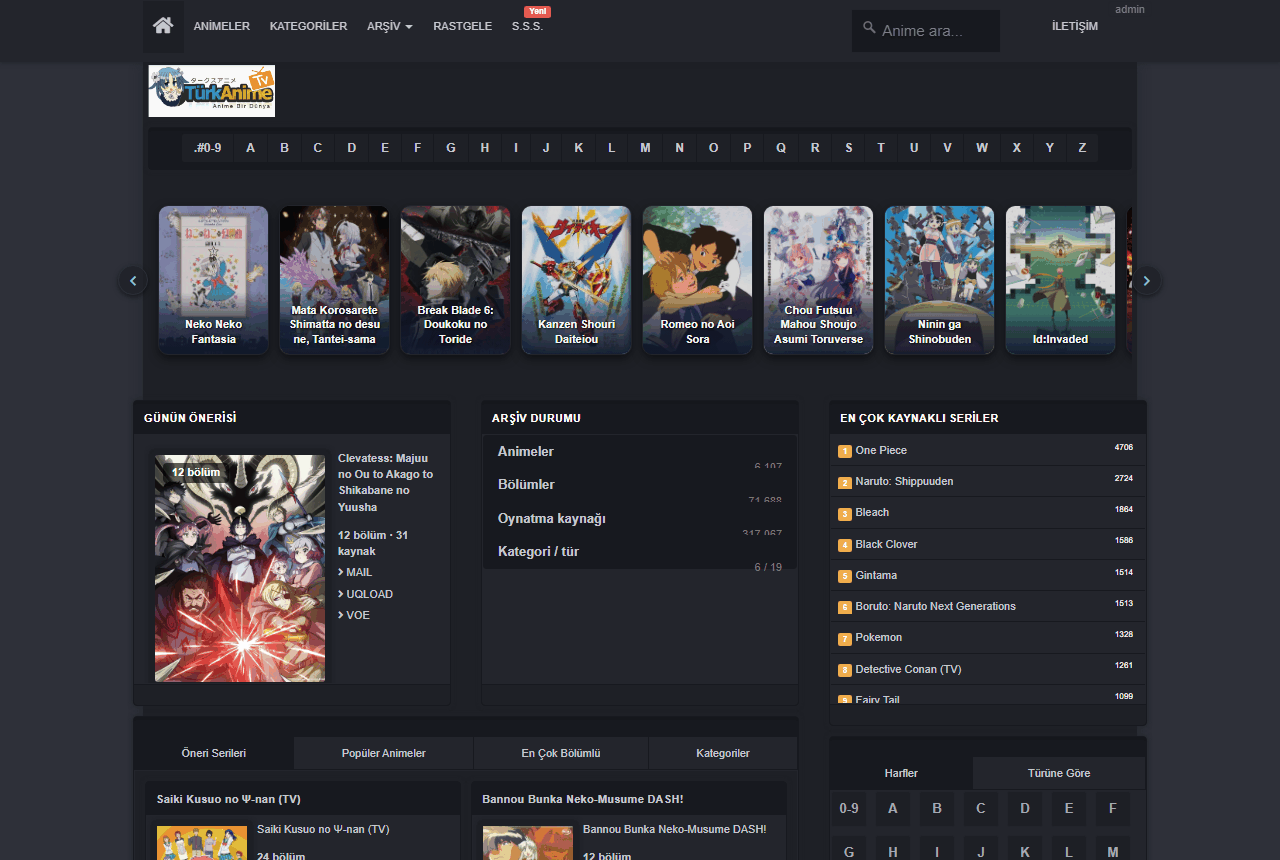
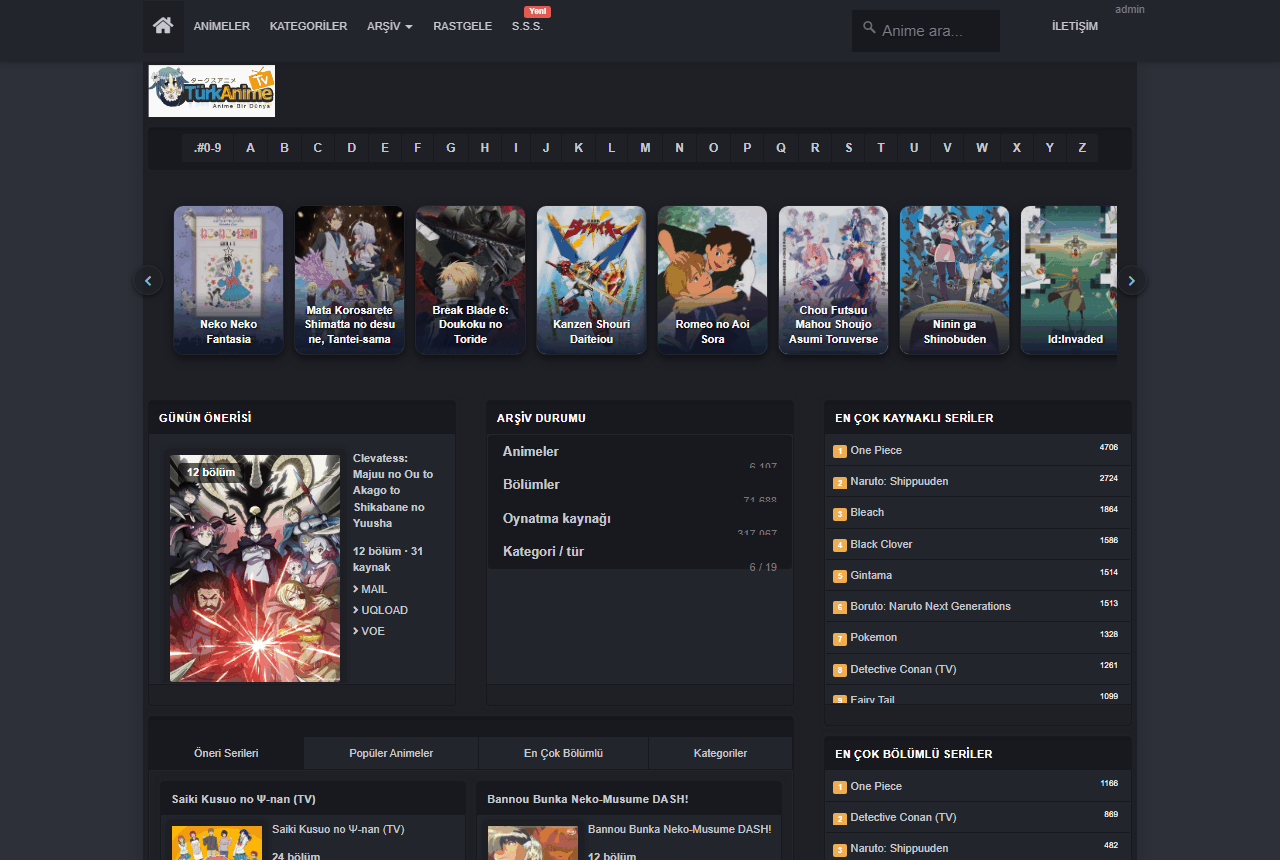
site: anasayfa DOM katmani referansla hizalandi, yan kolon panelleri
#arkaplan > .row > .row#app fazladan bir kademe olusturuyordu (turkanime'de
#arkaplan > .row > .col-xs-8). Dis sarmalayici kaldirildi: yapi karsilastirmasi
ortak yapi tasi 7 -> 33. Yan kolona ucuncu panel (en cok bolumlu seriler,
.menum) eklendi.

🤖 Generated with Codebuff

diff --git a/search.html b/search.html
@@ -953,9 +953,7 @@ document.addEventListener('click', function(ev){
         </div>
       </div>
     </div>
-    <div class="row">
-      <div class="row" id="app"></div>
-    </div>
+    <div class="row" id="app"></div>
   </div>
 </article>
 
@@ -2099,6 +2097,17 @@ function landingHtml(){
           <div class="panel-body padding-none" style="height:270px; overflow:auto;">
             <ul class="menum">
               ${pop.slice(0,10).map((a,i)=>`<li><a class="baloon" href="#/anime/${encodeURIComponent(a.slug)}"><span class="label label-warning">${i+1}</span> ${esc(a.baslik||a.slug)} <span class="label pull-right">${(a.urls||0)+(a.masks||0)}</span></a></li>`).join('')}
+            </ul>
+          </div>
+          <div class="panel-footer clearfix"></div>
+        </div>
+      </div>
+      <div class="col-xs-12">
+        <div class="panel">
+          <div class="panel-ust"><div class="panel-title">EN ÇOK BÖLÜMLÜ SERİLER</div></div>
+          <div class="panel-body padding-none" style="height:270px; overflow:auto;">
+            <ul class="menum">
+              ${uzun.slice(0,10).map((a,i)=>`<li><a class="baloon" href="#/anime/${encodeURIComponent(a.slug)}"><span class="label label-warning">${i+1}</span> ${esc(a.baslik||a.slug)} <span class="label pull-right">${a.eps}</span></a></li>`).join('')}
             </ul>
           </div>
           <div class="panel-footer clearfix"></div>
